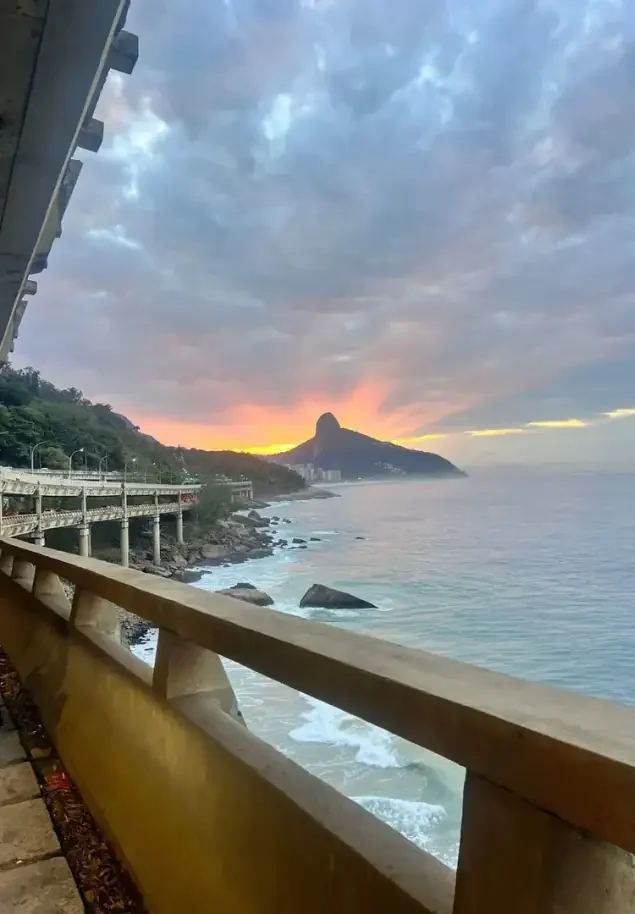
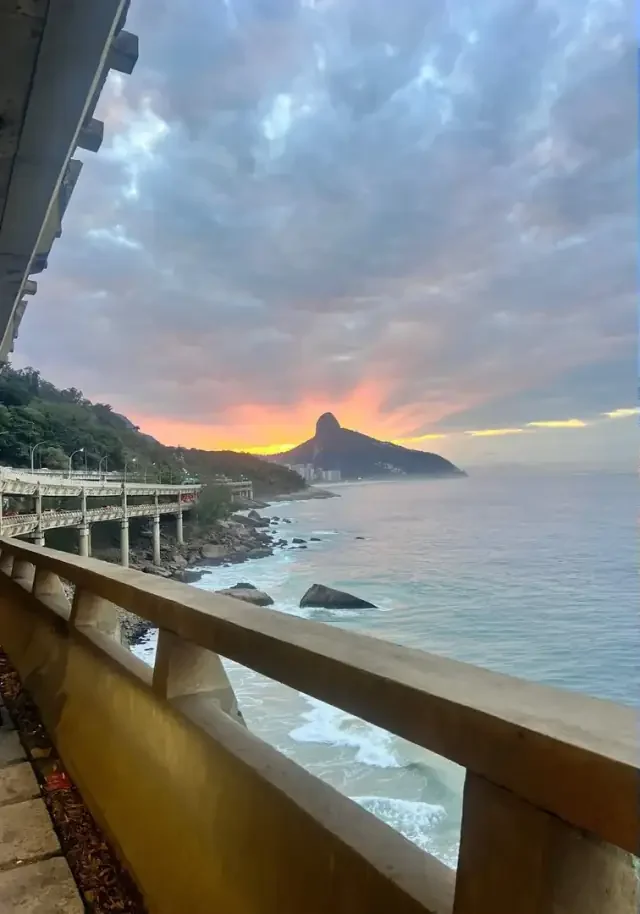
Update beach tour images to include new scenes
Replace playa1 image with playaAtardecerLeblon and playaBuggyArraial in packages.ts, updating both images and gallery arrays.

Replit-Commit-Author: Agent
Replit-Commit-Session-Id: 3d587bca-0b00-472e-9b87-2468c496b22a
Replit-Commit-Checkpoint-Type: full_checkpoint
Replit-Commit-Event-Id: 92ed9edb-5e0a-4a47-841b-f03a10b4545f
Replit-Commit-Screenshot-Url: https://storage.googleapis.com/screenshot-production-us-central1/bf2fb546-5781-421d-9d62-225ab8ade02d/3d587bca-0b00-472e-9b87-2468c496b22a/rk1Wt0h
Replit-Helium-Checkpoint-Created: true

diff --git a/client/src/lib/packages.ts b/client/src/lib/packages.ts
@@ -26,7 +26,8 @@ import favela4 from "@assets/favela4_1764736538872.webp";
 import favela5 from "@assets/favela5_1764995992345.webp";
 import favela6 from "@assets/favela6_1764995992347.webp";
 
-import playa1 from "@assets/playa1_1764991730825.webp";
+import playaAtardecerLeblon from "@assets/playa_atardecer_leblon.webp";
+import playaBuggyArraial from "@assets/playa_buggy_arraial.webp";
 import playa2 from "@assets/playa2_1764991730825.webp";
 import playa3 from "@assets/playa3_1764991730825.webp";
 import playa4 from "@assets/playa4_1764991730825.webp";
@@ -318,8 +319,8 @@ export const packages: PackageData[] = [
     titleKey: "tourPackages.playasTour.title",
     descriptionKey: "tourPackages.playasTour.description",
     image: beachImage,
-    images: [beachImage, playa1, playa2, playa3, playa4, playa5, playa6],
-    gallery: [playa1, playa2, playa3, playa4, playa5, playa6],
+    images: [beachImage, playaAtardecerLeblon, playaBuggyArraial, playa2, playa3, playa4, playa5, playa6],
+    gallery: [playaAtardecerLeblon, playaBuggyArraial, playa2, playa3, playa4, playa5, playa6],
     price: 80,
     durationKey: "tourPackages.playasTour.duration",
     locationKeys: [
